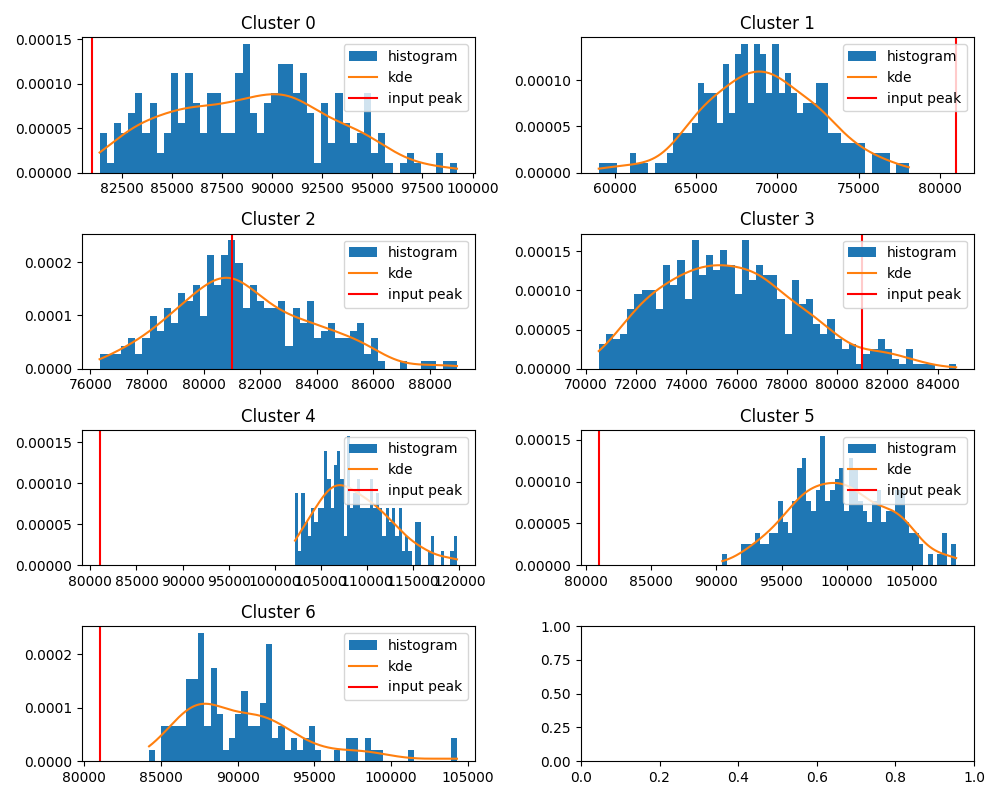
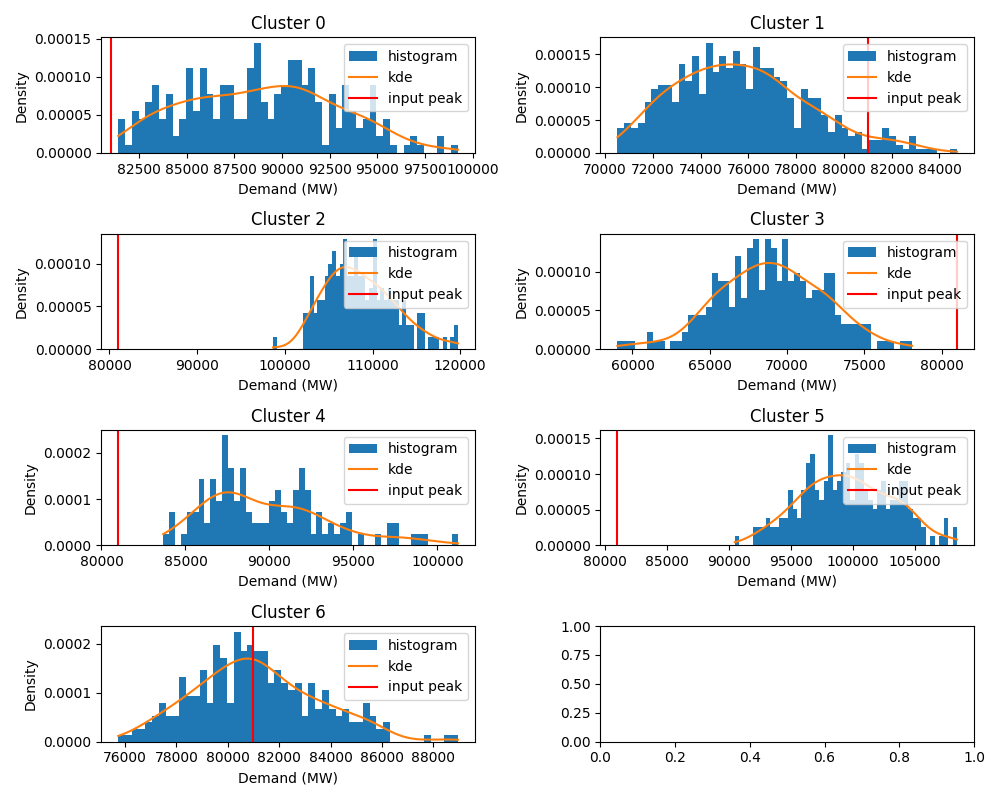
Tweaks to PDF graphs

diff --git a/src/main.py b/src/main.py
@@ -16,7 +16,7 @@ from classification import pdf_classification
 @click.option('--input_dir', '-i', default='data', type=click.Path(dir_okay=True), help="Input directory")
 @click.option('--output_dir', '-o', default='outputs', type=click.Path(dir_okay=True), help="Output directory")
 @click.option('--min_k', '-m', default=2, type=int, help='Minimum number of clusters, must be >2')
-@click.option('--max_k', '-k', default=25, type=int, help='Maximum number of clusters, must be >2')
+@click.option('--max_k', '-k', default=15, type=int, help='Maximum number of clusters, must be >2')
 @click.option('--clustering', '-c', default='KMeans', type=str, help="Algorithm used for clustering: ['Kmeans']")
 @click.option('--classification', '-l', default='PDF', type=str, help="Algorithm used for classification: ['PDF']")
 def main(input_dir, output_dir, min_k, max_k, clustering, classification):

diff --git a/src/classification.py b/src/classification.py
@@ -23,13 +23,16 @@ def pdf_classification(df, peak, chosen_k, name, output_path):
         ax[k//2, k%2].legend(loc='upper right')
         ax[k//2, k%2].set_title(f'Cluster {k}')
 
+        ax[k//2, k%2].set_xlabel("Demand (MW)")
+        ax[k//2, k%2].set_ylabel("Density")
+
         peak_pdf = kde.pdf(peak)
 
         if peak_pdf > max_pdf_seen:
             max_pdf_seen = peak_pdf
             best_cluster = k
 
-        print(f'{name} Cluster {k} has PDF = {peak_pdf}')
+        print(f'{name} Cluster {k} has Density = {peak_pdf} @ {peak} MW')
 
     fig.tight_layout()
     plt.savefig(f'{output_path}/{name}/cluster_pdfs', facecolor='white', transparent=False)

diff --git a/src/analysis.py b/src/analysis.py
@@ -96,7 +96,7 @@ def analyze_df(df_clusters, centroids, chosen_k, name, output_path):
         sub_arr.reset_index(inplace=True)
         melted = sub_arr.melt(id_vars='date')
         ax2.scatter(melted["hour"], melted["value"], alpha=0.05, color='yellowgreen')
-        ax2.plot(centroids[cluster_num][0:24], 'D-', color='cornflowerblue', linewidth=2.0)
+        ax2.plot(centroids[cluster_num][0:24], 'd-', color='cornflowerblue', linewidth=2.0)
         ax2.set_title(f'Number Profiles: {len(sub_arr)}')
         ax2.set_ylabel('MW')
         ax2.set_xlabel('Hour of Day')
